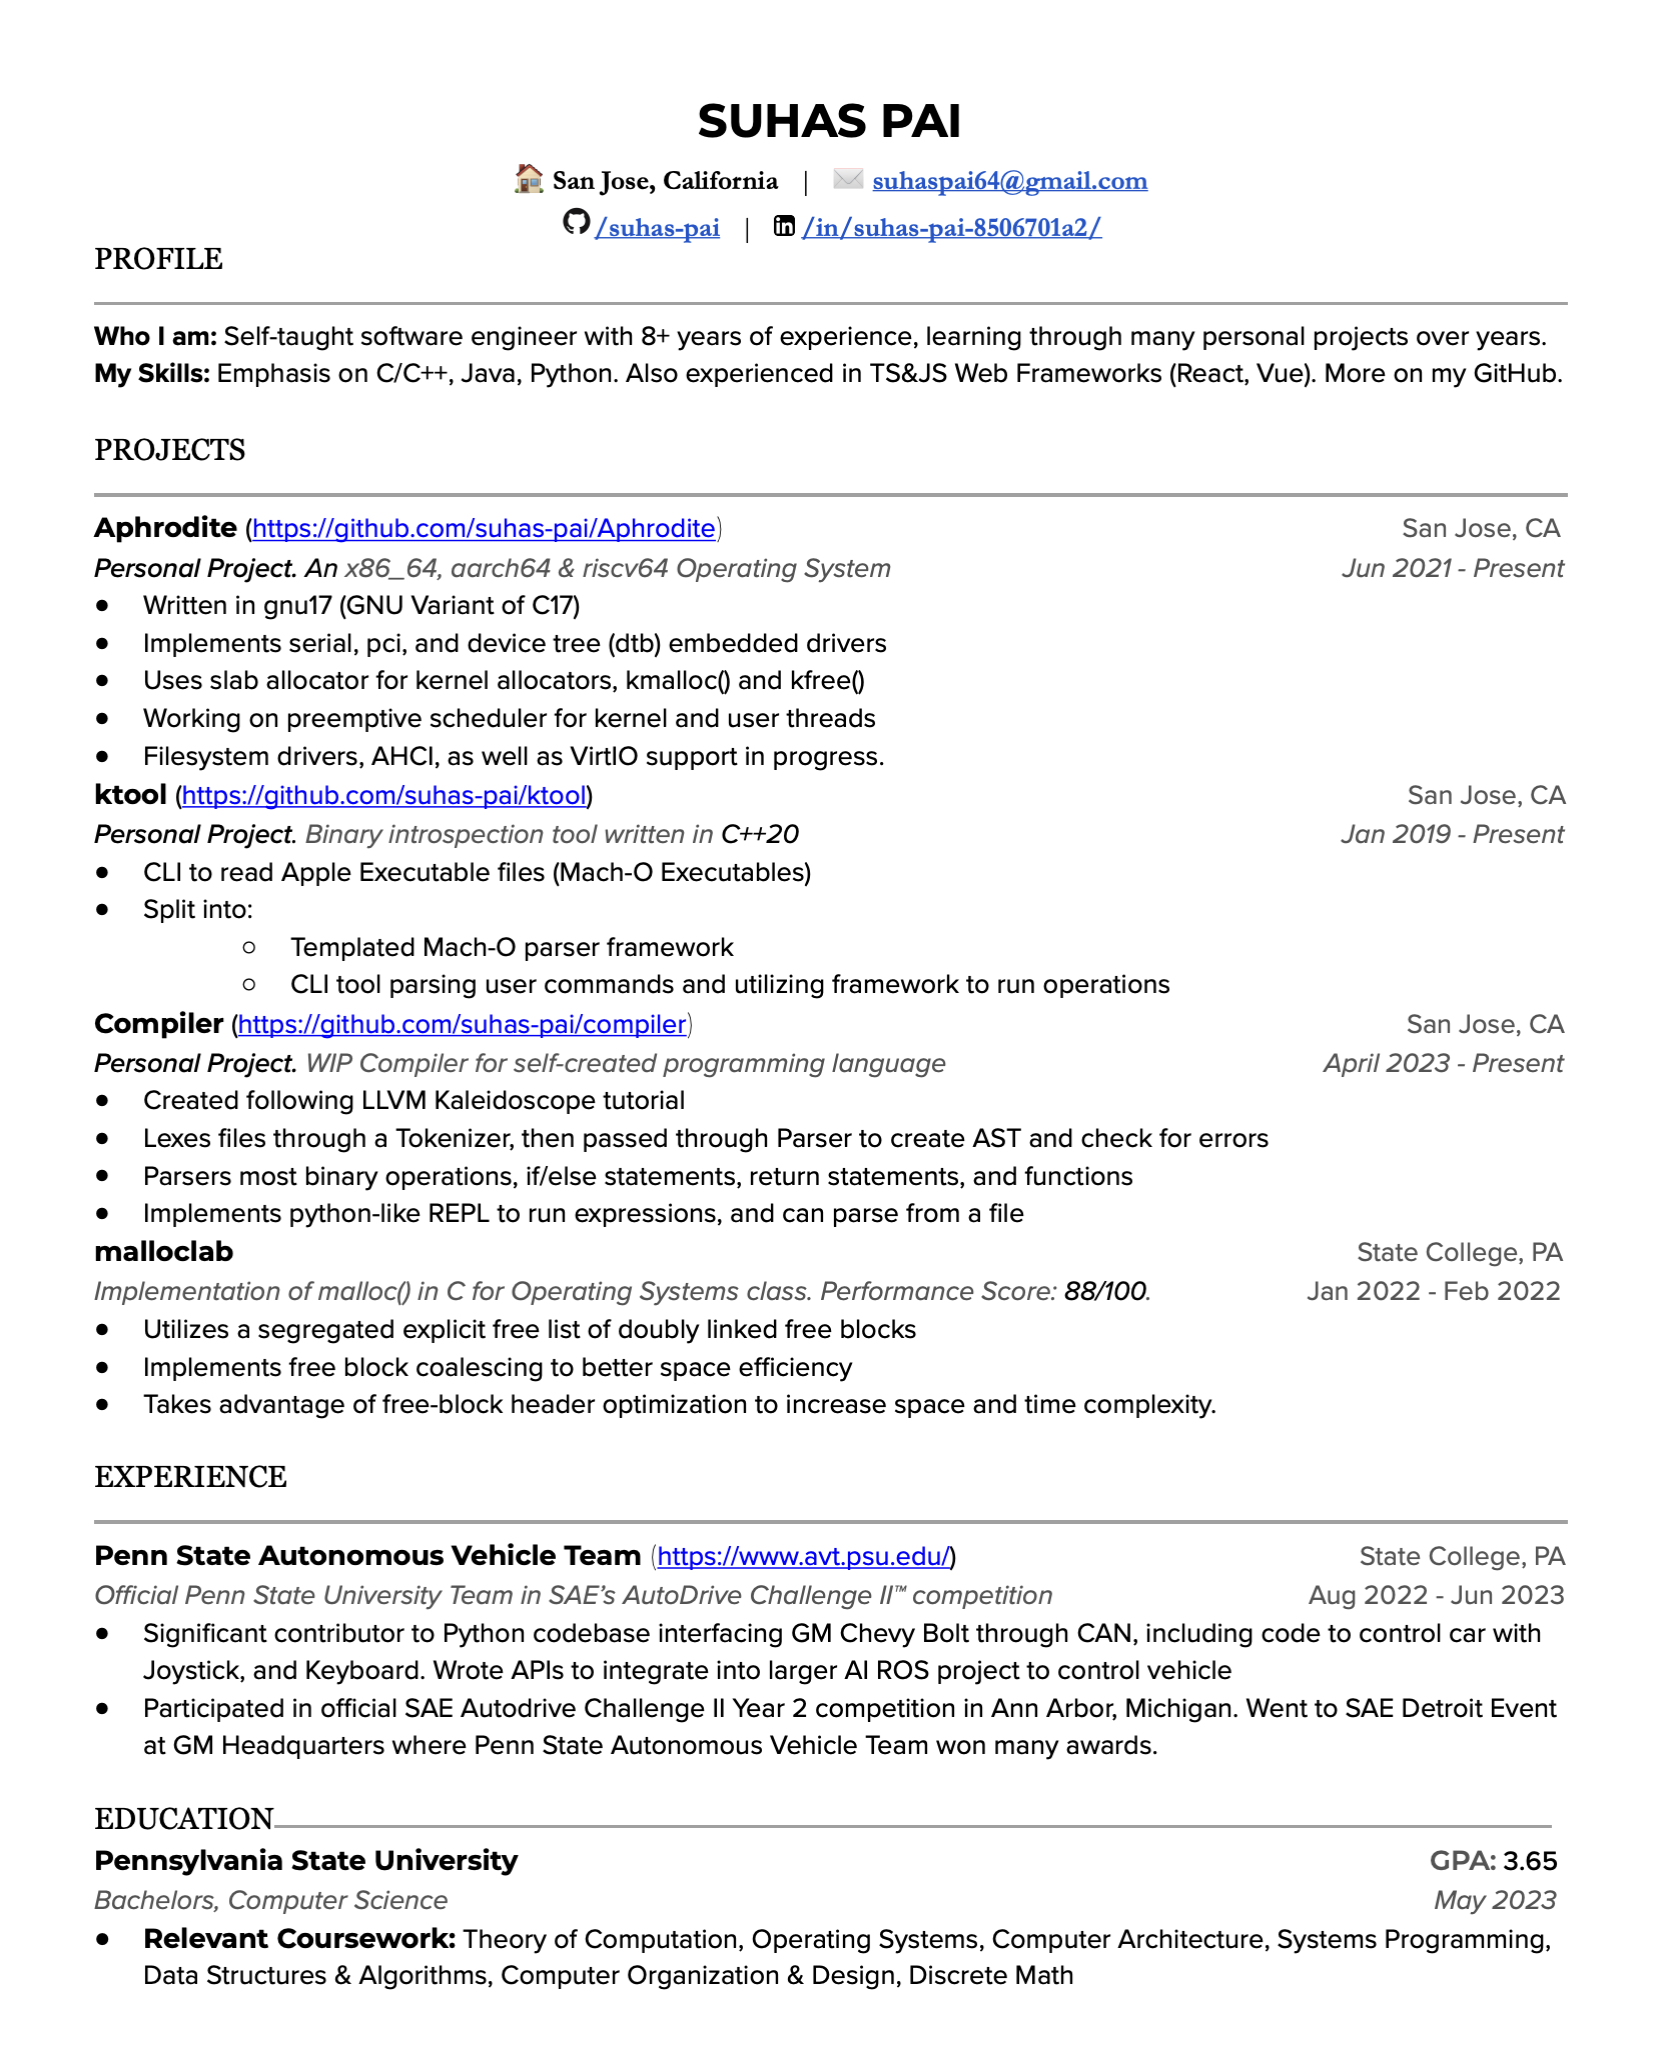
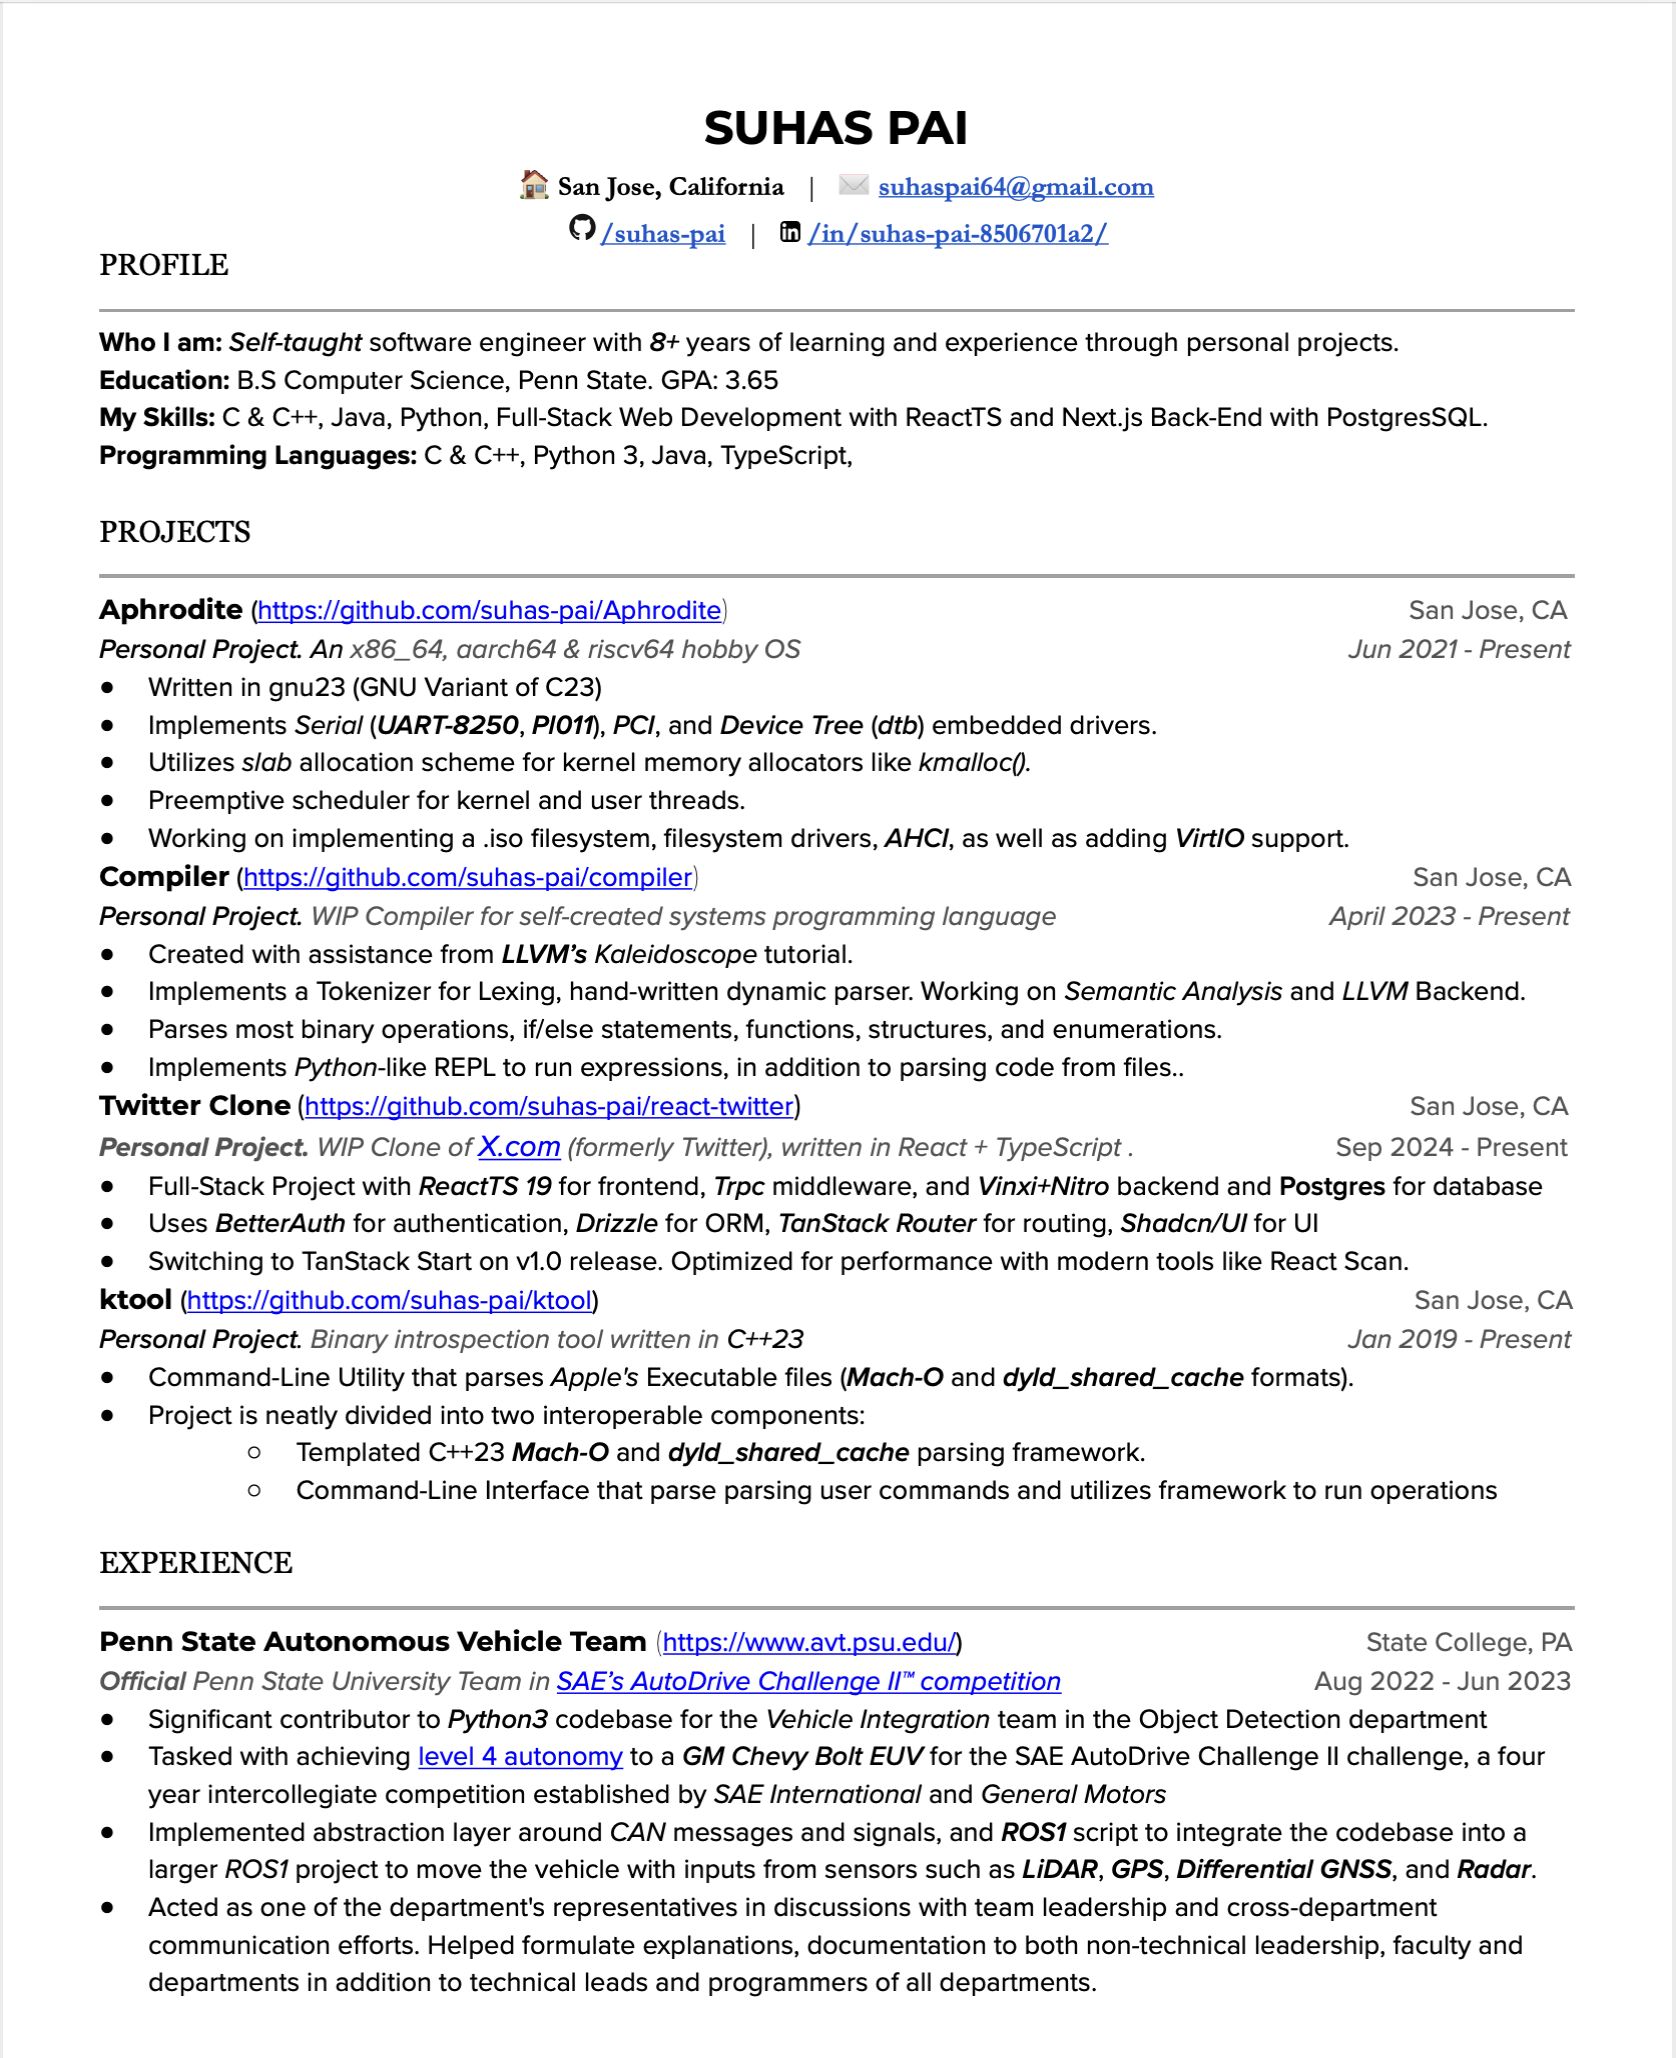
Update

diff --git a/README.md b/README.md
@@ -1,10 +1,11 @@
-### Hi there 👋
+# Hi there 👋
 
-- 🔭 I’m currently working on [Aphrodite](https://github.com/suhas-pai/Aphrodite)
-- 🌱 I’m currently learning more about operating system internals, compilers, programming language development, and LLVM
+- 🔭 I’m currently working on [Aphrodite](https://github.com/suhas-pai/Aphrodite), [compiler](https://github.com/suhas-pai/compiler), and [react-twitter](https://github.com/suhas-pai/react-twitter)
+- 🌱 I’m currently learning more about operating systems, compilers, programming languages, LLVM, and full stack web development
 
 Learn more on my Resume:
 ![Resume](Resume.png)
+![Resume-2](Resume-2.png)
 
 <!--
 **suhas-pai/suhas-pai** is a ✨ _special_ ✨ repository because its `README.md` (this file) appears on your GitHub profile.
